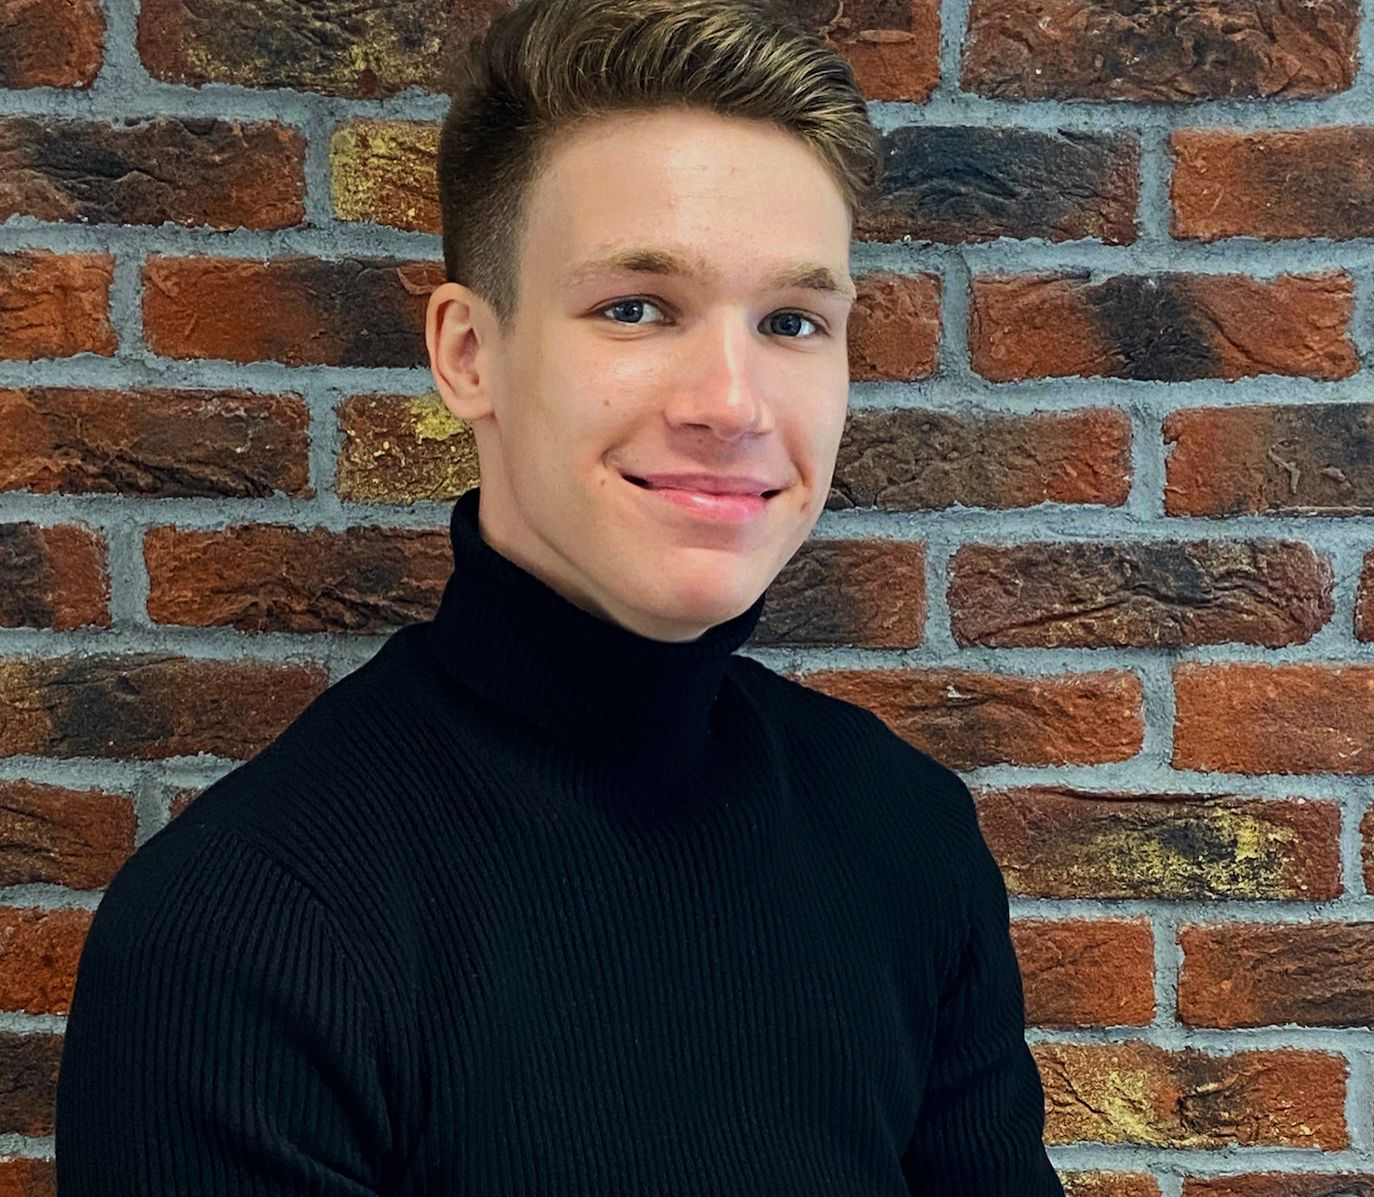
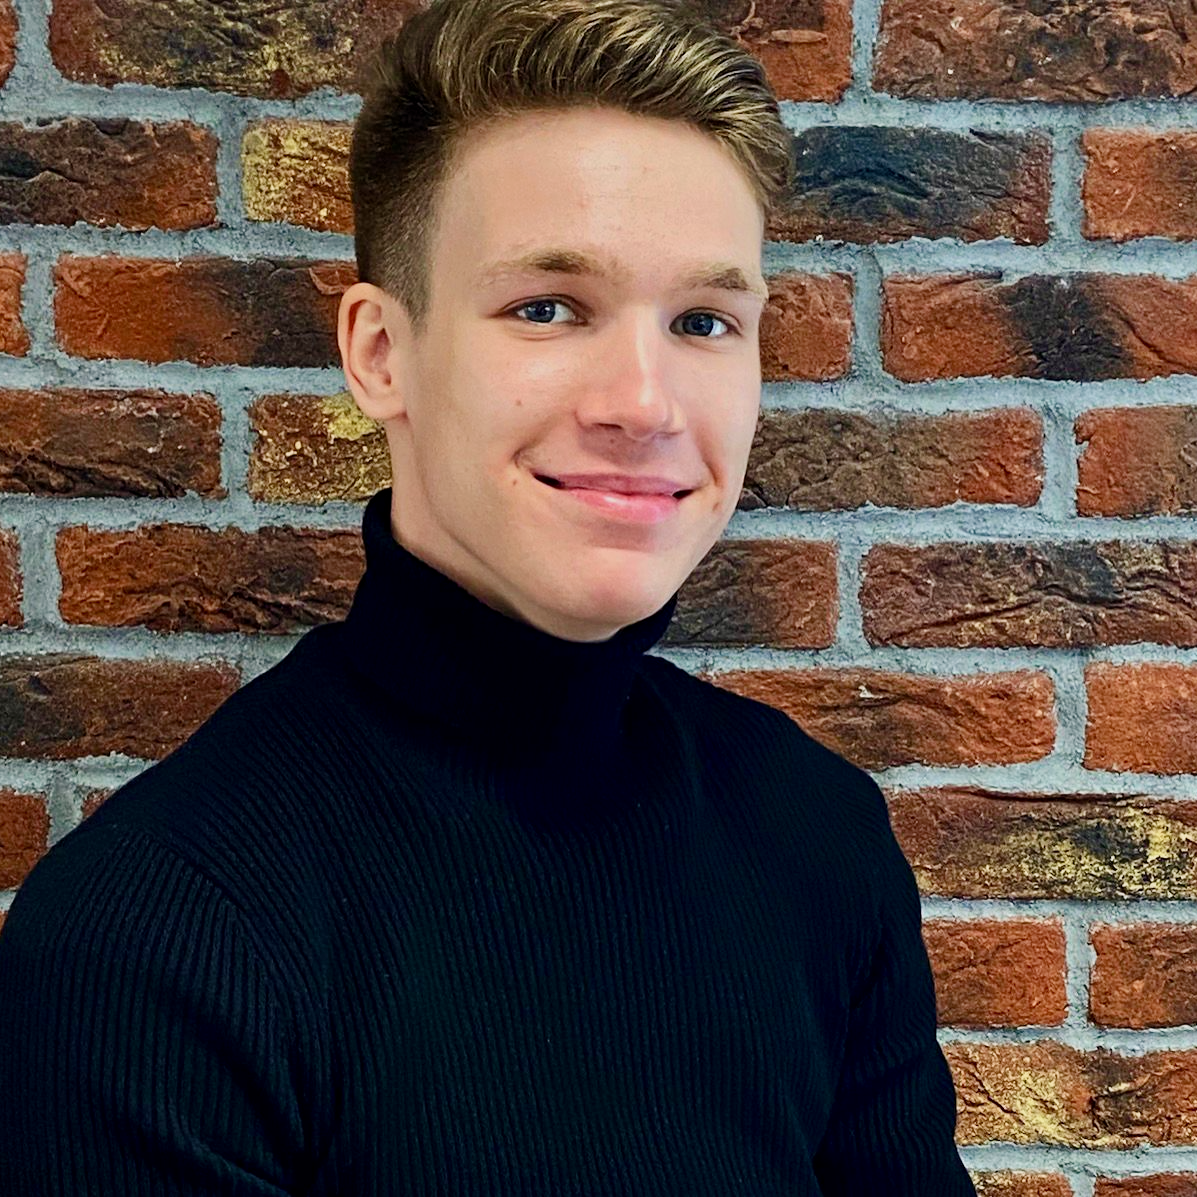
Squared up pictures

diff --git a/index.html b/index.html
@@ -419,7 +419,7 @@
                     <div class="vertical-card card card-wdss">
                       <div class="card-image">
                         <figure class="image is-1by1">
-                          <img src="img/ambassador/umar.jpg" alt="Umar Abdul-Aziz headshot">
+                          <img src="img/ambassador/umar.png" alt="Umar Abdul-Aziz headshot">
                         </figure>
                       </div>
                       <div class="card-content has-text-centered">
@@ -436,7 +436,7 @@
 
                     <div class="mobile-horizontal-card card card-wdss">
                       <article class="media">
-                        <img style="height:40vh; margin: 0;width: auto" src="img/ambassador/umar.jpg"
+                        <img style="height:40vh; margin: 0;width: auto" src="img/ambassador/umar.png"
                           alt="Umar Abdul-Aziz headshot">
                         <div class="media-content ml-2 mt-2">
                           <div class="content">
@@ -461,7 +461,7 @@
                     <div class="vertical-card card card-wdss">
                       <div class="card-image">
                         <figure class="image is-1by1">
-                          <img src="img/ambassador/amr.jpg" alt="Amr Abdelmotteleb headshot">
+                          <img src="img/ambassador/amr.png" alt="Amr Abdelmotteleb headshot">
                         </figure>
                       </div>
                       <div class="card-content has-text-centered">
@@ -479,7 +479,7 @@
 
                     <div class="mobile-horizontal-card card card-wdss">
                       <article class="media">
-                        <img style="height:40vh; margin: 0;width: auto" src="img/ambassador/amr.jpg"
+                        <img style="height:40vh; margin: 0;width: auto" src="img/ambassador/amr.png"
                           alt="Amr Abdelmotteleb headshot">
                         <div class="media-content ml-2 mt-2">
                           <div class="content">
@@ -1110,7 +1110,7 @@
                       <div class="card-image">
                         <figure class="image is-1by1">
 
-                          <img src="img/team/dodzia.jpg" class="responsive-img " alt="Dodzia Daraż headshot">
+                          <img src="img/team/dodzia.png" class="responsive-img " alt="Dodzia Daraż headshot">
                         </figure>
                       </div>
                       <div class="card-content has-text-centered">
@@ -1128,7 +1128,7 @@
 
                     <div class="mobile-horizontal-card card card-wdss">
                       <article class="media">
-                        <img style="height:40vh; margin: 0;width: auto" src="img/team/dodzia.jpg"
+                        <img style="height:40vh; margin: 0;width: auto" src="img/team/dodzia.png"
                           alt="Dodzia Daraż headshot">
                         <div class="media-content ml-2 mt-2">
                           <div class="content">
@@ -1154,7 +1154,7 @@
                       <div class="card-image">
                         <figure class="image is-1by1">
 
-                          <img src="img/team/aina.jpg" class="responsive-img " alt="Aina Uvarova headshot">
+                          <img src="img/team/aina.png" class="responsive-img " alt="Aina Uvarova headshot">
                         </figure>
                       </div>
                       <div class="card-content has-text-centered">
@@ -1169,7 +1169,7 @@
 
                     <div class="mobile-horizontal-card card card-wdss">
                       <article class="media">
-                        <img style="height:40vh; margin: 0;width: auto" src="img/team/aina.jpg"
+                        <img style="height:40vh; margin: 0;width: auto" src="img/team/aina.png"
                           alt="Aina Uvarova headshot">
                         <div class="media-content ml-2 mt-2">
                           <div class="content">
